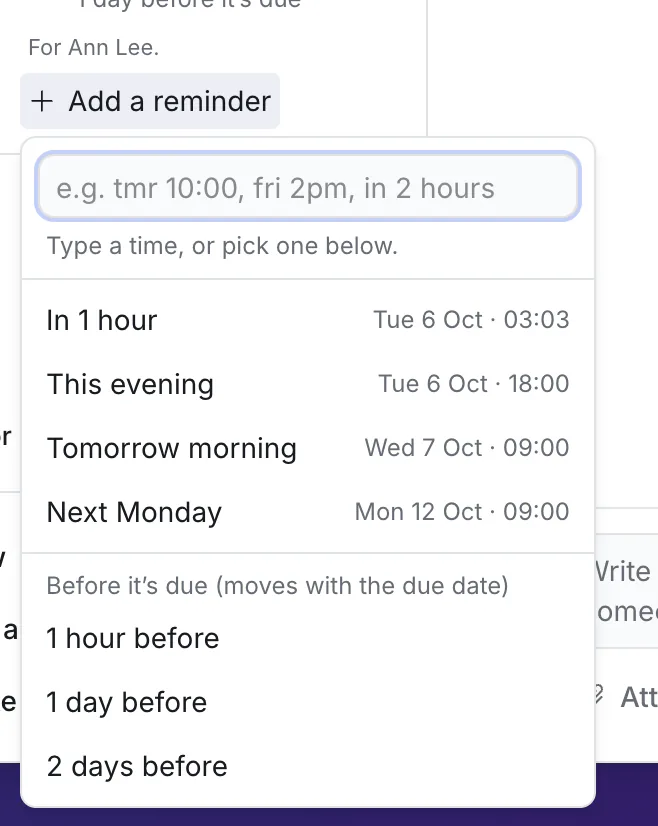
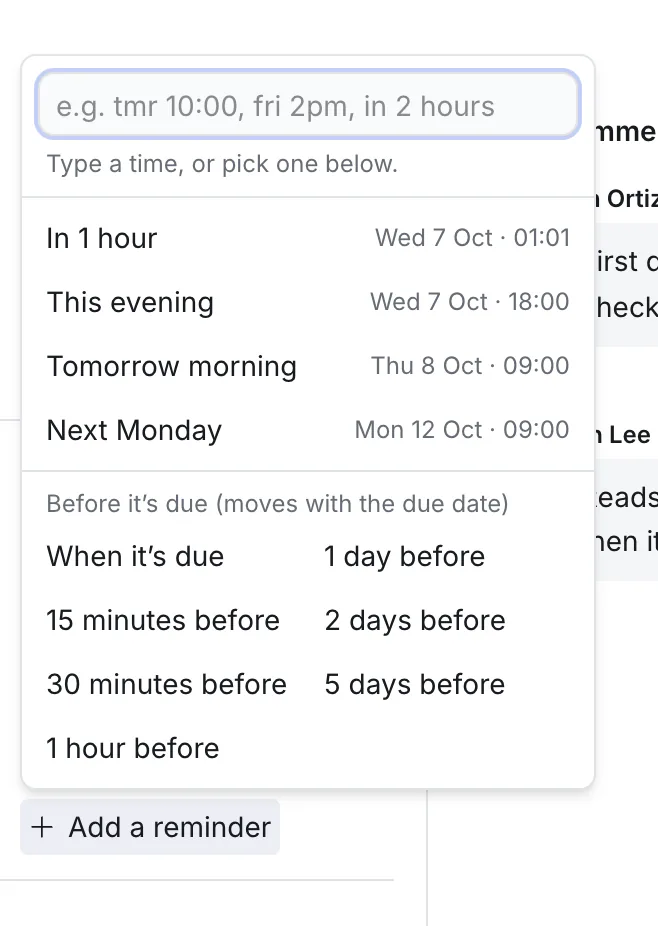
More choices for a reminder before the due date: "Before it's due" in a card's reminder picker offers when it's due, 15 minutes, 30 minutes, 1 hour, 1 day, 2 days and 5 days before (it had 1 hour, 1 day and 2 days), in two columns, times within the day and whole days, so the picker is no taller; a r

diff --git a/apps/web/src/components/task/Reminders.tsx b/apps/web/src/components/task/Reminders.tsx
@@ -8,18 +8,16 @@ import { useNow } from '@/lib/useNow'
 import { cn } from '@/lib/utils'
 import { parseWhen } from '@/lib/when'
 import { newId } from '@kanbanto/model/ids'
-import { fireTime } from '@kanbanto/model/reminders'
+import { beforeDueWords, fireTime } from '@kanbanto/model/reminders'
 import type { Reminder, Task } from '@kanbanto/model/types'
 
 /** A moment as a reminder's `at`: UTC, to the minute. */
 const moment = (d: Date) => new Date(Math.floor(d.getTime() / 60_000) * 60_000).toISOString().replace(/\.\d{3}Z$/, 'Z')
+/** The "before it's due" choices, in minutes: the ones within the day in one column, whole days in the other. */
 const BEFORE_DUE = [
-  { label: '1 hour before', minutes: 60 },
-  { label: '1 day before', minutes: 24 * 60 },
-  { label: '2 days before', minutes: 2 * 24 * 60 },
+  [0, 15, 30, 60],
+  [24 * 60, 2 * 24 * 60, 5 * 24 * 60],
 ]
-
-const beforeWords = (m: number) => BEFORE_DUE.find((b) => b.minutes === m)?.label ?? `${m} minutes before`
 
 /**
  * A card's reminders: each goes off once, for whoever is assigned then (or whoever set it, if nobody is), under the
@@ -49,7 +47,12 @@ export function Reminders({ task, readOnly, onChange }: { task: Task; readOnly: 
                 {at ? formatDay(at.toISOString(), true) : 'Needs a due date'}
                 {past && ' · went off'}
               </span>
-              {r.beforeDue !== undefined && <span className="block text-xs text-muted-foreground">{beforeWords(r.beforeDue)} it’s due</span>}
+              {r.beforeDue !== undefined && (
+                <span className="block text-xs text-muted-foreground">
+                  {beforeDueWords(r.beforeDue)}
+                  {r.beforeDue > 0 && ' it’s due'}
+                </span>
+              )}
             </span>
             {!readOnly && (
               <button
@@ -165,20 +168,26 @@ function AddReminder({ task, onAdd }: { task: Task; onAdd: (r: Omit<Reminder, 'i
           <p className="px-2 pt-1 pb-0.5 text-xs text-muted-foreground">
             {task.due ? 'Before it’s due (moves with the due date)' : 'Before it’s due: set a due date first'}
           </p>
-          {BEFORE_DUE.map((b) => (
-            <button
-              key={b.minutes}
-              type="button"
-              disabled={!task.due}
-              onClick={() => {
-                onAdd({ beforeDue: b.minutes, tz })
-                setOpen(false)
-              }}
-              className="flex w-full rounded px-2 py-1.5 text-left text-sm hover:bg-accent disabled:pointer-events-none disabled:opacity-40"
-            >
-              {b.label}
-            </button>
-          ))}
+          <div className="grid grid-cols-2">
+            {BEFORE_DUE.map((column, i) => (
+              <div key={i}>
+                {column.map((minutes) => (
+                  <button
+                    key={minutes}
+                    type="button"
+                    disabled={!task.due}
+                    onClick={() => {
+                      onAdd({ beforeDue: minutes, tz })
+                      setOpen(false)
+                    }}
+                    className="flex w-full rounded px-2 py-1.5 text-left text-sm hover:bg-accent disabled:pointer-events-none disabled:opacity-40"
+                  >
+                    {beforeDueWords(minutes)}
+                  </button>
+                ))}
+              </div>
+            ))}
+          </div>
         </div>
       </PopoverContent>
     </Popover>

diff --git a/packages/model/src/reminders.test.ts b/packages/model/src/reminders.test.ts
@@ -2,7 +2,7 @@ import { describe, expect, it } from 'vitest'
 import { describeChanges } from './activity'
 import { execute } from './commands'
 import { indexFor } from './indexer'
-import { fireTime, upcoming, zoned } from './reminders'
+import { beforeDueWords, fireTime, upcoming, zoned } from './reminders'
 import { exampleData } from './sample'
 
 describe('when reminders fire', () => {
@@ -16,6 +16,20 @@ describe('when reminders fire', () => {
     expect(fireTime({ id: 'r', beforeDue: 24 * 60, tz: 'Asia/Bangkok' }, { due: '2026-10-05' })?.toISOString()).toBe('2026-10-04T02:00:00.000Z')
     expect(fireTime({ id: 'r', beforeDue: 60 }, {})).toBe(null)
     expect(zoned('2026-01-15', 9, 'America/New_York').toISOString()).toBe('2026-01-15T14:00:00.000Z')
+  })
+
+  it('says how long before the due date in the largest whole unit', () => {
+    expect([0, 15, 30, 60, 90, 120, 1440, 2880, 7200].map(beforeDueWords)).toEqual([
+      'When it’s due',
+      '15 minutes before',
+      '30 minutes before',
+      '1 hour before',
+      '90 minutes before',
+      '2 hours before',
+      '1 day before',
+      '2 days before',
+      '5 days before',
+    ])
   })
 
   it('lists what’s still to come, soonest first', () => {

diff --git a/packages/model/src/reminders.ts b/packages/model/src/reminders.ts
@@ -14,6 +14,13 @@ export function fireTime(r: Reminder, task: Pick<Task, 'due'>): Date | null {
   return real(new Date(due.getTime() - r.beforeDue * 60_000))
 }
 
+/** How long before the due date, in words: "When it’s due", "15 minutes before", "2 hours before", "5 days before". */
+export function beforeDueWords(minutes: number): string {
+  if (minutes <= 0) return 'When it’s due'
+  const [n, unit] = minutes % 1440 === 0 ? [minutes / 1440, 'day'] : minutes % 60 === 0 ? [minutes / 60, 'hour'] : [minutes, 'minute']
+  return `${n} ${unit}${n === 1 ? '' : 's'} before`
+}
+
 /** A task's reminders that still have a moment, soonest first. */
 export function upcoming(task: Pick<Task, 'due' | 'reminders'>, after = new Date()): { reminder: Reminder; at: Date }[] {
   return (task.reminders ?? [])

diff --git a/CHANGELOG.md b/CHANGELOG.md
@@ -110,7 +110,7 @@ then `git pull` (or download the new release) and `docker compose up -d --build`
   write: it opens ready to type from an empty description or straight from the card's editor (same text, same
   cursor), looks like the page you'll read, keeps Contents beside you as headings appear, and counts your words.
 - **Reminders** on cards: at a time you type in plain words ("tmr 10:00", "fri 2pm") or pick, or before the due date
-  (following it). They go to whoever is assigned, under the bell and by email (which can be turned off), and to
+  (following it: when it's due, or from 15 minutes to 5 days before). They go to whoever is assigned, under the bell and by email (which can be turned off), and to
   webhooks as `reminder.due`. Assistants can set and list them.
 - **Desktop notifications** (Web Push, no app to install), turned on per computer in Account → Notifications:
   reminders, @mentions and news from the cards you follow pop up even when Kanbanto isn't open; clicking one opens

diff --git a/guides/everyday/dates-and-reminders.md b/guides/everyday/dates-and-reminders.md
@@ -50,8 +50,9 @@ There are two kinds:
 
 - **At a time:** whatever you type, or one of the suggestions (such as "In 1 hour" or "Tomorrow morning"; they change
   with the time of day).
-- **Before it's due:** 1 hour, 1 day or 2 days before. This kind moves with the due date. Change the date and the
-  reminder follows. It needs the card to have a due date.
+- **Before it's due:** when it's due, or 15 minutes, 30 minutes, 1 hour, 1 day, 2 days or 5 days before. This kind
+  moves with the due date. Change the date and the reminder follows. It needs the card to have a due date. (A due
+  date without a time counts as 9:00 that morning.)
 
 A card can have several reminders. To remove one, point at it and click the **✕** that appears.
 
